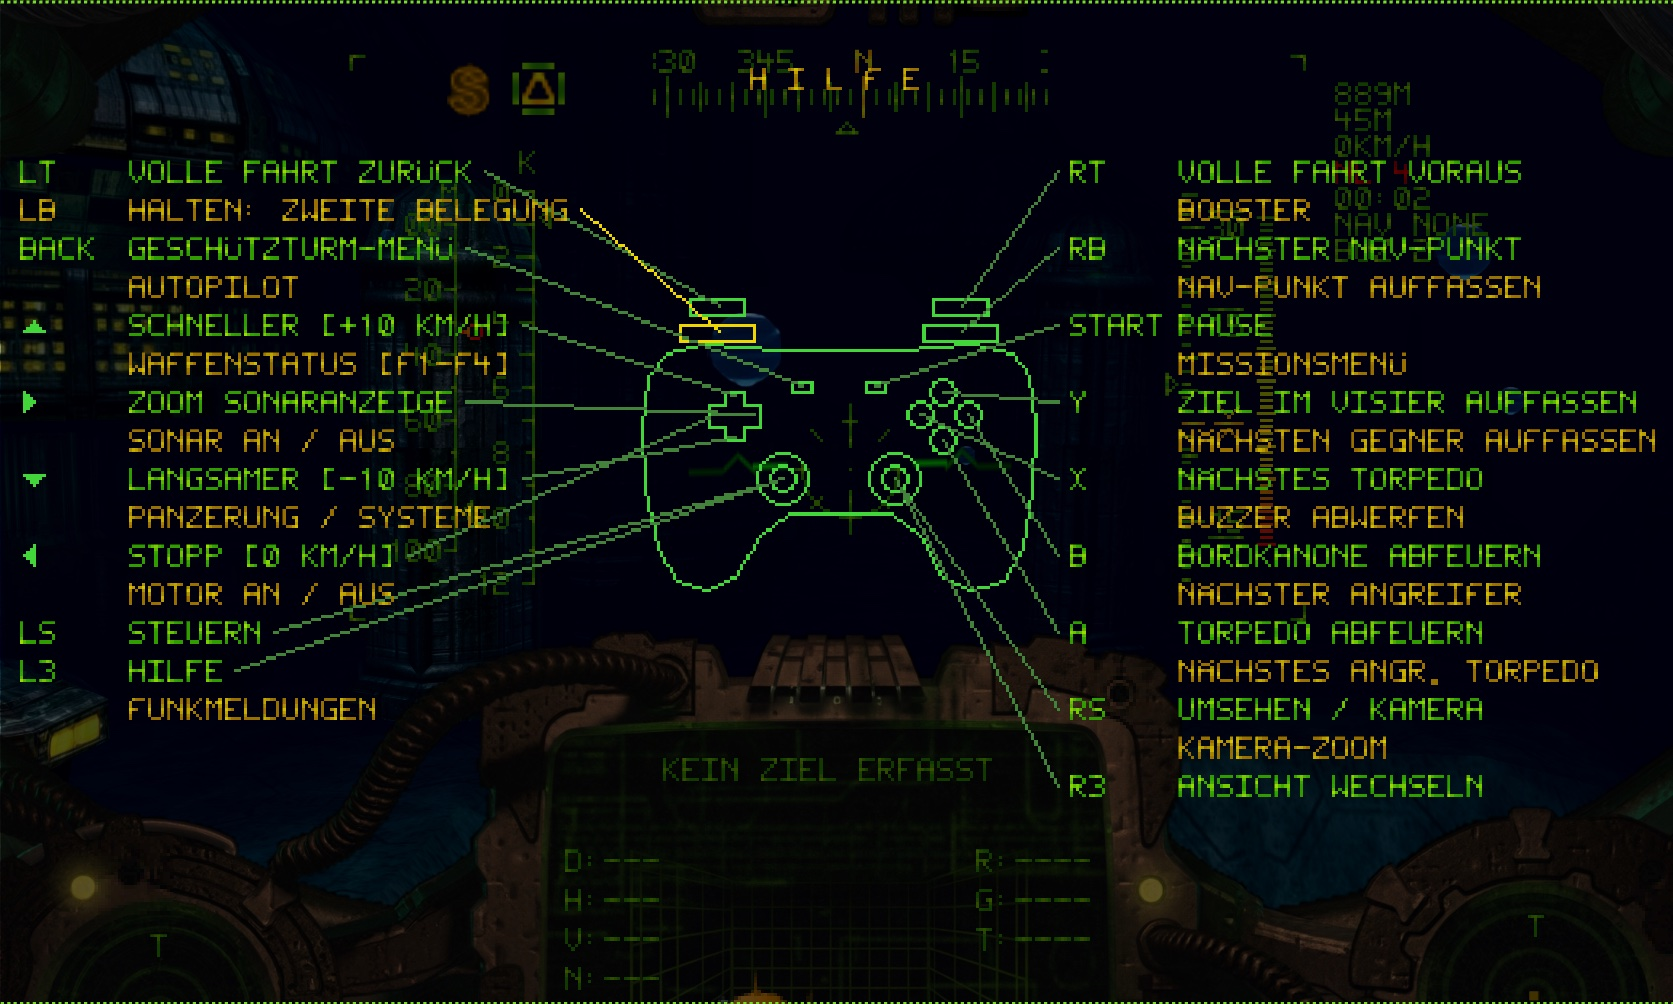
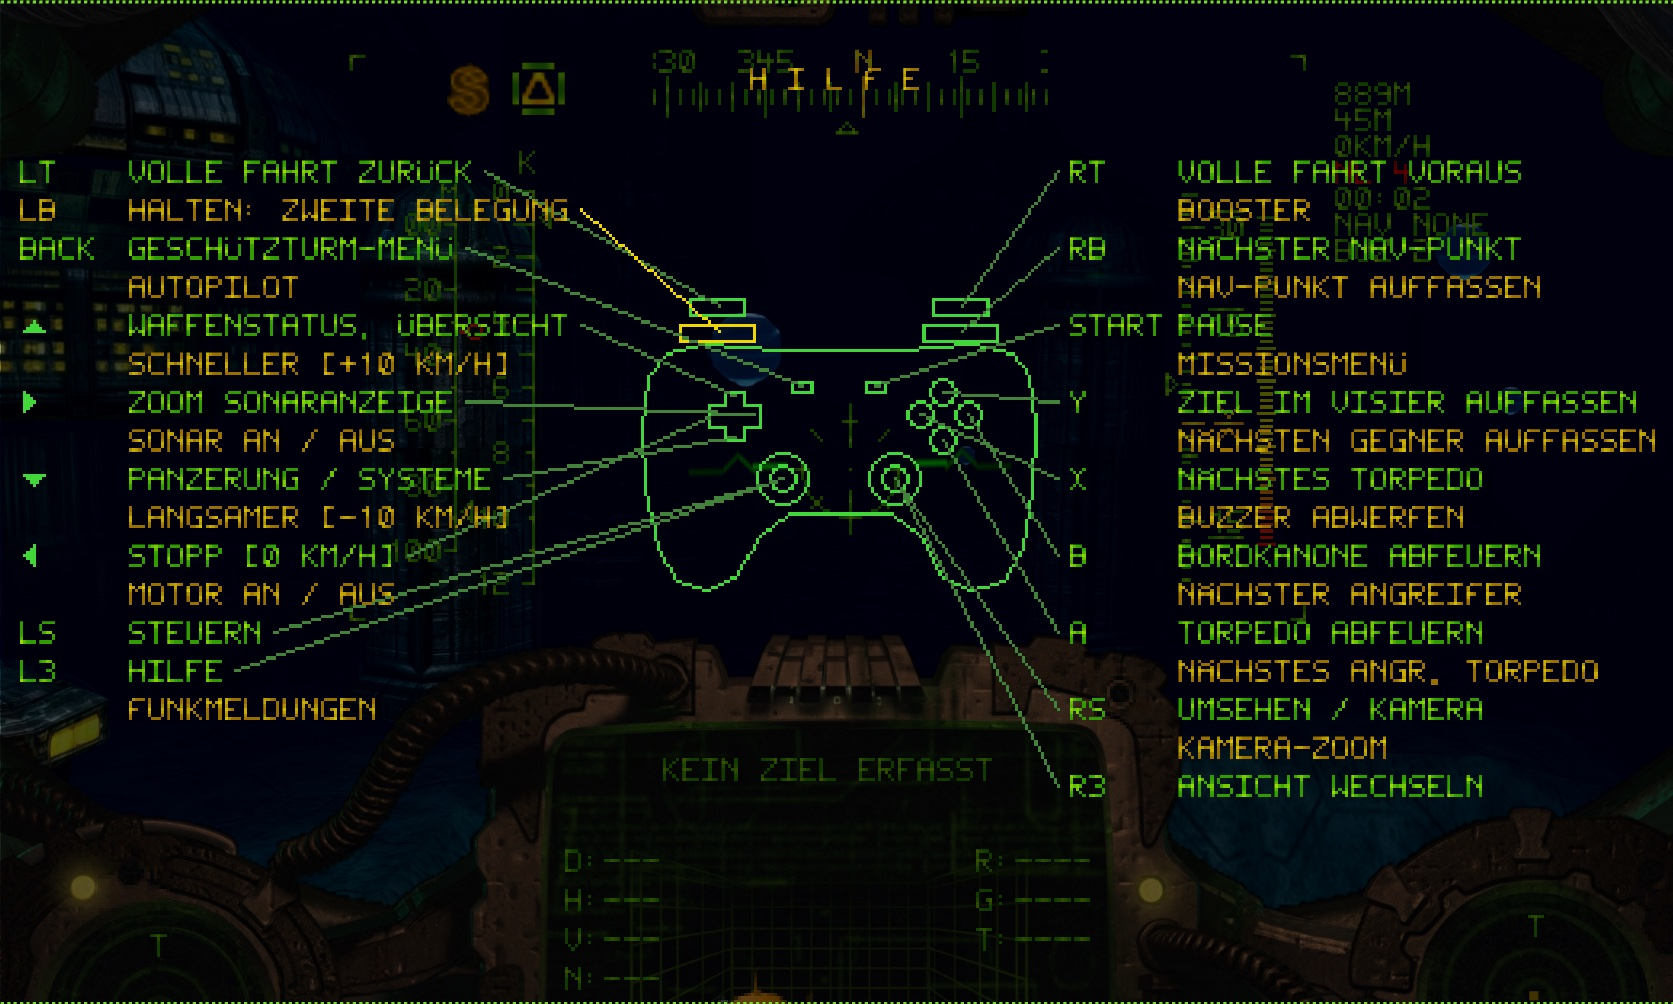
D-pad up the weapon page with its overview, down the armour page; the pause clears the view
- the d-pad's up steps through the weapon page (gun, magazine, the boat's
  turrets, the overview), with LB 10 km/h faster; its down the armour and
  systems page, with LB 10 km/h slower
- pausing closes the help, the radio log, the briefing and the turret and
  autopilot menus
- the help's page, the README's table and its screenshot to match

diff --git a/src/hud/hud.cpp b/src/hud/hud.cpp
@@ -1079,9 +1079,17 @@ void HUD::press(input::KeyEvent *e)
         engageAutopilot();
         return;
     }
+    // the pause clears the view: the help, the radio log, the briefing and the turret and autopilot
+    // menus close
     if (e->key() == input::Key_P)
     {
         m_paused = !m_paused;
+        if (m_paused)
+        {
+            m_pages->close();
+            if (m_menu->page() != MissionMenu::Page::None && !m_menu->pauses())
+                m_menu->open(MissionMenu::Page::None);
+        }
         return;
     }
     if (m_paused || m_scenario->playerDestroyed())
@@ -1349,8 +1357,9 @@ input::KeyEvent HUD::buttonKey(input::Button button)
     case Button_South: return second ? KeyEvent(Key_G) : KeyEvent(Key_Tab);
     case Button_North: return second ? KeyEvent(Key_U) : KeyEvent(Key_L);
     case Button_West: return second ? KeyEvent(Key_D) : KeyEvent(Key_Return);
-    case Button_Up: return second ? KeyEvent(Key(Key_F1 + m_weaponPage)) : KeyEvent(Key_S);
-    case Button_Down: return second ? KeyEvent(Key_I) : KeyEvent(Key_X);
+    // (the d-pad's up without LB steps through the weapon page, buttonPressEvent)
+    case Button_Up: return second ? KeyEvent(Key_S) : KeyEvent();
+    case Button_Down: return second ? KeyEvent(Key_X) : KeyEvent(Key_I);
     case Button_Left: return second ? KeyEvent(Key_QuoteLeft) : KeyEvent(Key_C);
     case Button_Right: return second ? KeyEvent(Key_R) : KeyEvent(Key_R, AltModifier);
     case Button_LeftStick: return second ? KeyEvent(Key_M) : KeyEvent(Key_H);
@@ -1413,6 +1422,16 @@ void HUD::buttonPressEvent(input::Button button)
     }
 
     const bool menu = m_menu->page() != MissionMenu::Page::None;
+    // the d-pad's up: the weapon page's next weapon, then the overview, with the F keys' click
+    if (button == input::Button_Up && !m_shoulder)
+    {
+        if (!m_slaveMonitors.empty() && !m_paused && !m_scenario->playerDestroyed())
+        {
+            m_slaveMonitors.front()->nextWeapon();
+            sfx::SampleMap::get(sfx::Sample::Click).play();
+        }
+        return;
+    }
     const input::KeyEvent key = buttonKey(button);
     // the help opened from the controller starts at the controller's page
     if (key.key() == input::Key_H && m_pages->page() == Pages::Page::None)
@@ -1426,8 +1445,6 @@ void HUD::buttonPressEvent(input::Button button)
     // a menu opened by a button shows its highlight at once
     if (!menu && m_menu->page() != MissionMenu::Page::None)
         m_menu->select(0);
-    if (key.key() >= input::Key_F1 && key.key() <= input::Key_F4)
-        m_weaponPage = (m_weaponPage + 1) % 4;
 }
 
 

diff --git a/src/hud/pages.cpp b/src/hud/pages.cpp
@@ -110,9 +110,9 @@ const PadControl PadLeft[] = {
     { "LT", Vector2D(35, 3), txt::Pad_Astern, -1 },
     { "LB", Vector2D(35, 13), txt::Pad_Shift, -1 },
     { "BACK", Vector2D(70, 36), txt::Pad_Turrets, txt::Pad_Autopilot },
-    { "", Vector2D(42, 40), txt::Pad_Faster, txt::Pad_WeaponStatus, 0 },
+    { "", Vector2D(42, 40), txt::Pad_WeaponStatus, txt::Pad_Faster, 0 },
     { "", Vector2D(50, 48), txt::Pad_SonarZoom, txt::Pad_Sonar, 1 },
-    { "", Vector2D(42, 56), txt::Pad_Slower, txt::Pad_Armor, 2 },
+    { "", Vector2D(42, 56), txt::Pad_Armor, txt::Pad_Slower, 2 },
     { "", Vector2D(34, 48), txt::Pad_Stop, txt::Pad_Engine, 3 },
     { "LS", Vector2D(62, 74), txt::Pad_Steer, -1 },
     { "L3", Vector2D(62, 74), txt::Pad_Help, txt::Pad_Radio },

diff --git a/src/hud/slavemonitor.cpp b/src/hud/slavemonitor.cpp
@@ -116,6 +116,25 @@ void SlaveMonitor::pressWeaponKey(Weapon weapon)
 }
 
 
+void SlaveMonitor::nextWeapon()
+{
+    if (m_page != Page::Weapon || m_overview)
+    {
+        m_page = Page::Weapon;
+        m_weapon = Weapon::Gun;
+        m_overview = false;
+        return;
+    }
+    for (int next = int(m_weapon) + 1; next <= int(Weapon::Turret2); next++)
+        if (next < int(Weapon::Turret1) || m_hud->scenario()->player()->turret(next - int(Weapon::Turret1)))
+        {
+            m_weapon = Weapon(next);
+            return;
+        }
+    m_overview = true;
+}
+
+
 void SlaveMonitor::tap(bool alone)
 {
     switch (m_page)

diff --git a/src/hud/slavemonitor.h b/src/hud/slavemonitor.h
@@ -61,6 +61,9 @@ public:
     // overview, the armor page switches as I does; a single monitor (alone) goes on from the
     // overview to the armor page and from the system state back to the gun
     void tap(bool alone);
+    // the controller's d-pad: the weapon page's next weapon the boat has, then the overview, then
+    // the gun again (from another page the gun)
+    void nextWeapon();
     // whether a point of the 640x480 view is on the monitor
     bool contains(const Point &point) const;
     // the table of all weapons or the system state in a rect of the 640x480 view, without the

diff --git a/src/txt/stringtable.cpp b/src/txt/stringtable.cpp
@@ -99,7 +99,7 @@ String StringTable::get(StringVertigo string)
         { "GESCH\x9aTZTURM-MEN\x9a", "TURRET MENU" },
         { "AUTOPILOT", "AUTOPILOT" },
         { "SCHNELLER (+10 KM/H)", "FASTER (+10 KM/H)" },
-        { "WAFFENSTATUS (F1-F4)", "WEAPON STATUS (F1-F4)" },
+        { "WAFFENSTATUS, \x9a" "BERSICHT", "WEAPON STATUS, OVERVIEW" },
         { "SONAR AN / AUS", "SONAR ON / OFF" },
         { "ZOOM SONARANZEIGE", "SONAR DISPLAY ZOOM" },
         { "LANGSAMER (-10 KM/H)", "SLOWER (-10 KM/H)" },

diff --git a/src/hud/hud.h b/src/hud/hud.h
@@ -247,7 +247,6 @@ private:
     int m_repeat = -1;      // the button that changes the speed again and again while held
     float m_repeatWait = 0;
     std::unique_ptr<TouchControls> m_touch;
-    int m_weaponPage = 0;   // the next of F1-F4 for LB+Up
     bool m_integerScale;
     Matrix m_integerScaleProjectionMatrix;
     Matrix m_integerScaleProjectionMatrixInverted;

diff --git a/README.md b/README.md
@@ -294,8 +294,8 @@ an Xbox controller and A on a Nintendo one:
 | A (bottom) | fire a torpedo (Tab) | lock the next attacking torpedo (G) |
 | Y (top) | lock the target in the reticle (L) | lock the nearest enemy (U) |
 | X (left) | next torpedo (Enter) | drop a buzzer (D) |
-| D-pad up | 10 km/h faster, repeating while held (S) | the weapon page: gun, magazine, turrets in turn (F1–F4) |
-| D-pad down | 10 km/h slower, the same (X) | armor and systems page (I) |
+| D-pad up | the weapon page: gun, magazine, the turrets, the overview in turn (F1–F4) | 10 km/h faster, repeating while held (S) |
+| D-pad down | armor and systems page (I) | 10 km/h slower, repeating while held (X) |
 | D-pad left | stop (C) | engine on or off (the key left of 1) |
 | D-pad right | sonar zoom (Alt+R) | sonar on or off (R) |
 | L3 (press the left stick) | the help, at the controller's page; again for its next page (H) | the radio messages (M) |
